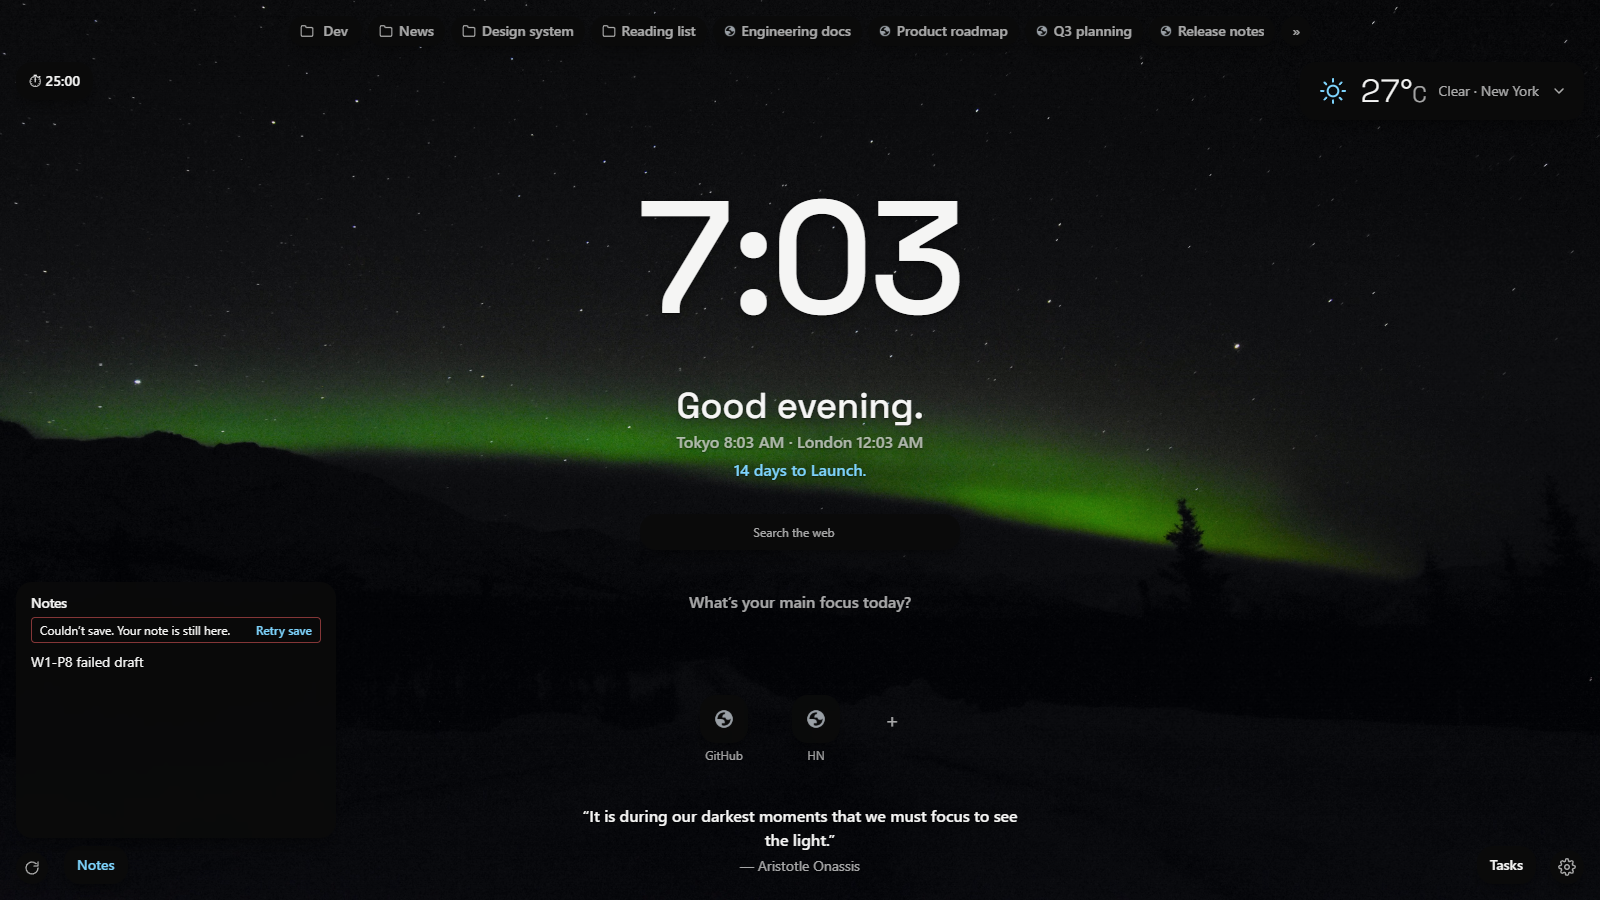
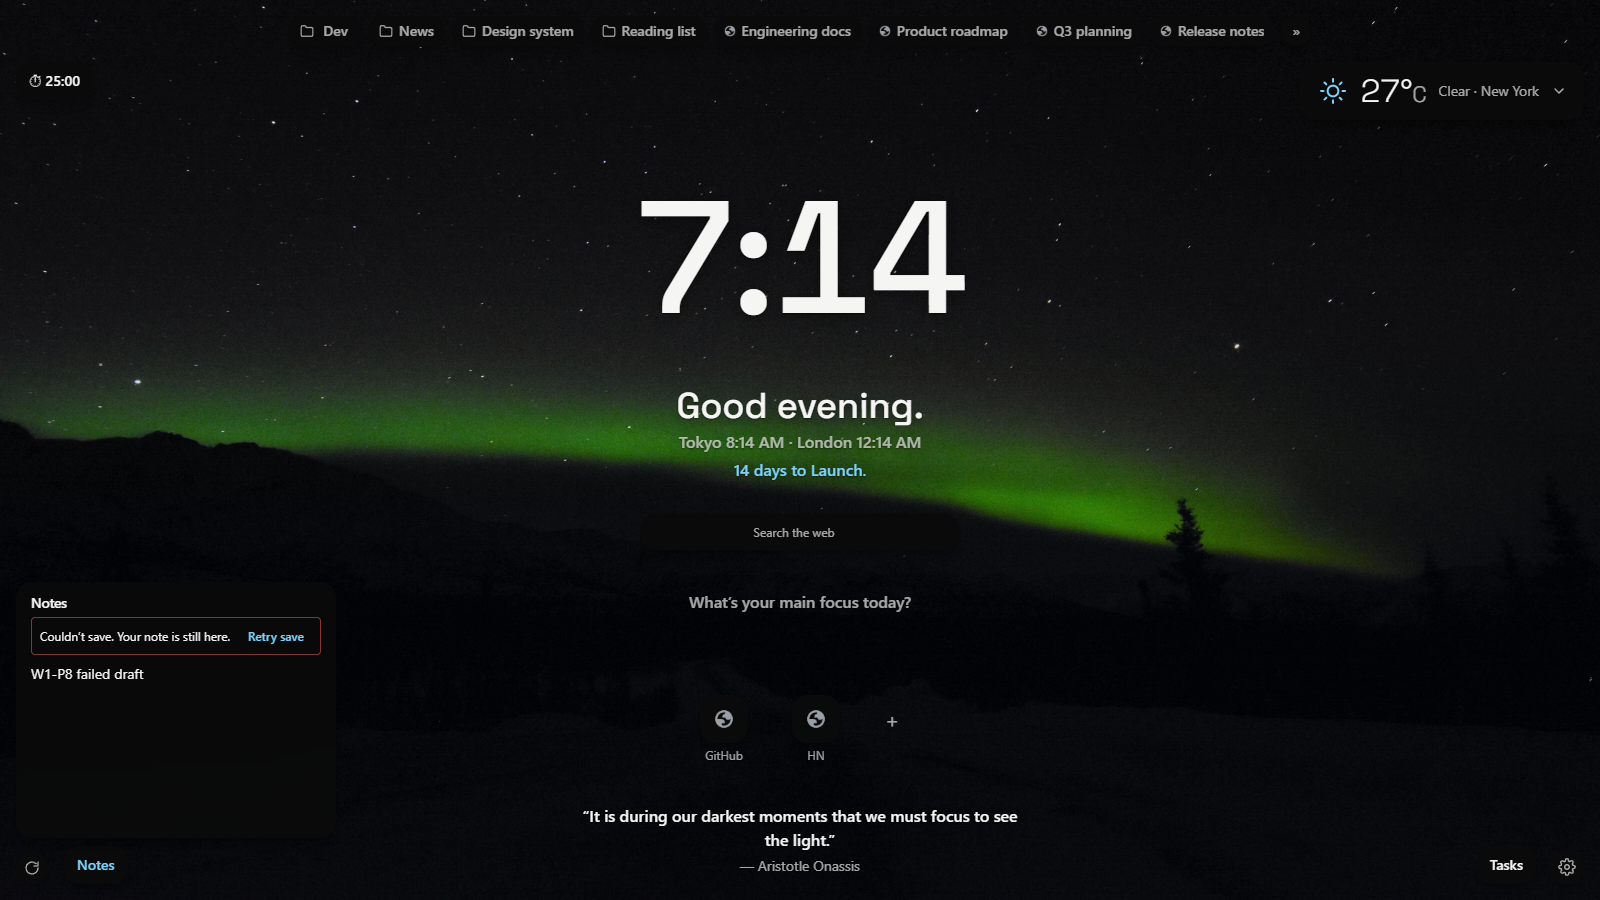
fix(notes): address W1-P8 review

diff --git a/src/newtab/widgets/notes/NotesPanel.tsx b/src/newtab/widgets/notes/NotesPanel.tsx
@@ -74,13 +74,13 @@ const NotesPanel = forwardRef<NotesPanelHandle, NotesPanelProps>(function NotesP
       {notes.status === 'error' && (
         <div
           role="alert"
-          className="mx-3.5 mb-1 flex items-center justify-between gap-2 rounded border border-red-400/50 px-2 py-1 text-xs text-fg"
+          className="mx-3.5 mb-1 flex min-h-9 items-center justify-between gap-2 rounded border border-red-400/50 px-2 text-xs text-fg"
         >
           <span>Couldn’t save. Your note is still here.</span>
           <button
             type="button"
             onClick={() => void notes.retry()}
-            className="shrink-0 font-medium text-accent focus-visible:outline-2 focus-visible:outline-accent"
+            className="min-h-9 shrink-0 px-2 font-medium text-accent focus-visible:outline-2 focus-visible:outline-accent"
           >
             Retry save
           </button>

diff --git a/src/newtab/widgets/notes/NotesWidget.test.tsx b/src/newtab/widgets/notes/NotesWidget.test.tsx
@@ -97,6 +97,7 @@ describe('NotesWidget', () => {
     expect(pill.getAttribute('aria-expanded')).toBe('true')
     expect(screen.getByRole('alert').textContent).toContain('Your note is still here')
     expect(textarea.value).toBe('Rejected draft')
+    expect(screen.getByRole('button', { name: 'Retry save' }).classList.contains('min-h-9')).toBe(true)
 
     fireEvent.change(textarea, { target: { value: 'Latest retry' } })
     await act(async () => { fireEvent.click(screen.getByRole('button', { name: 'Retry save' })) })
